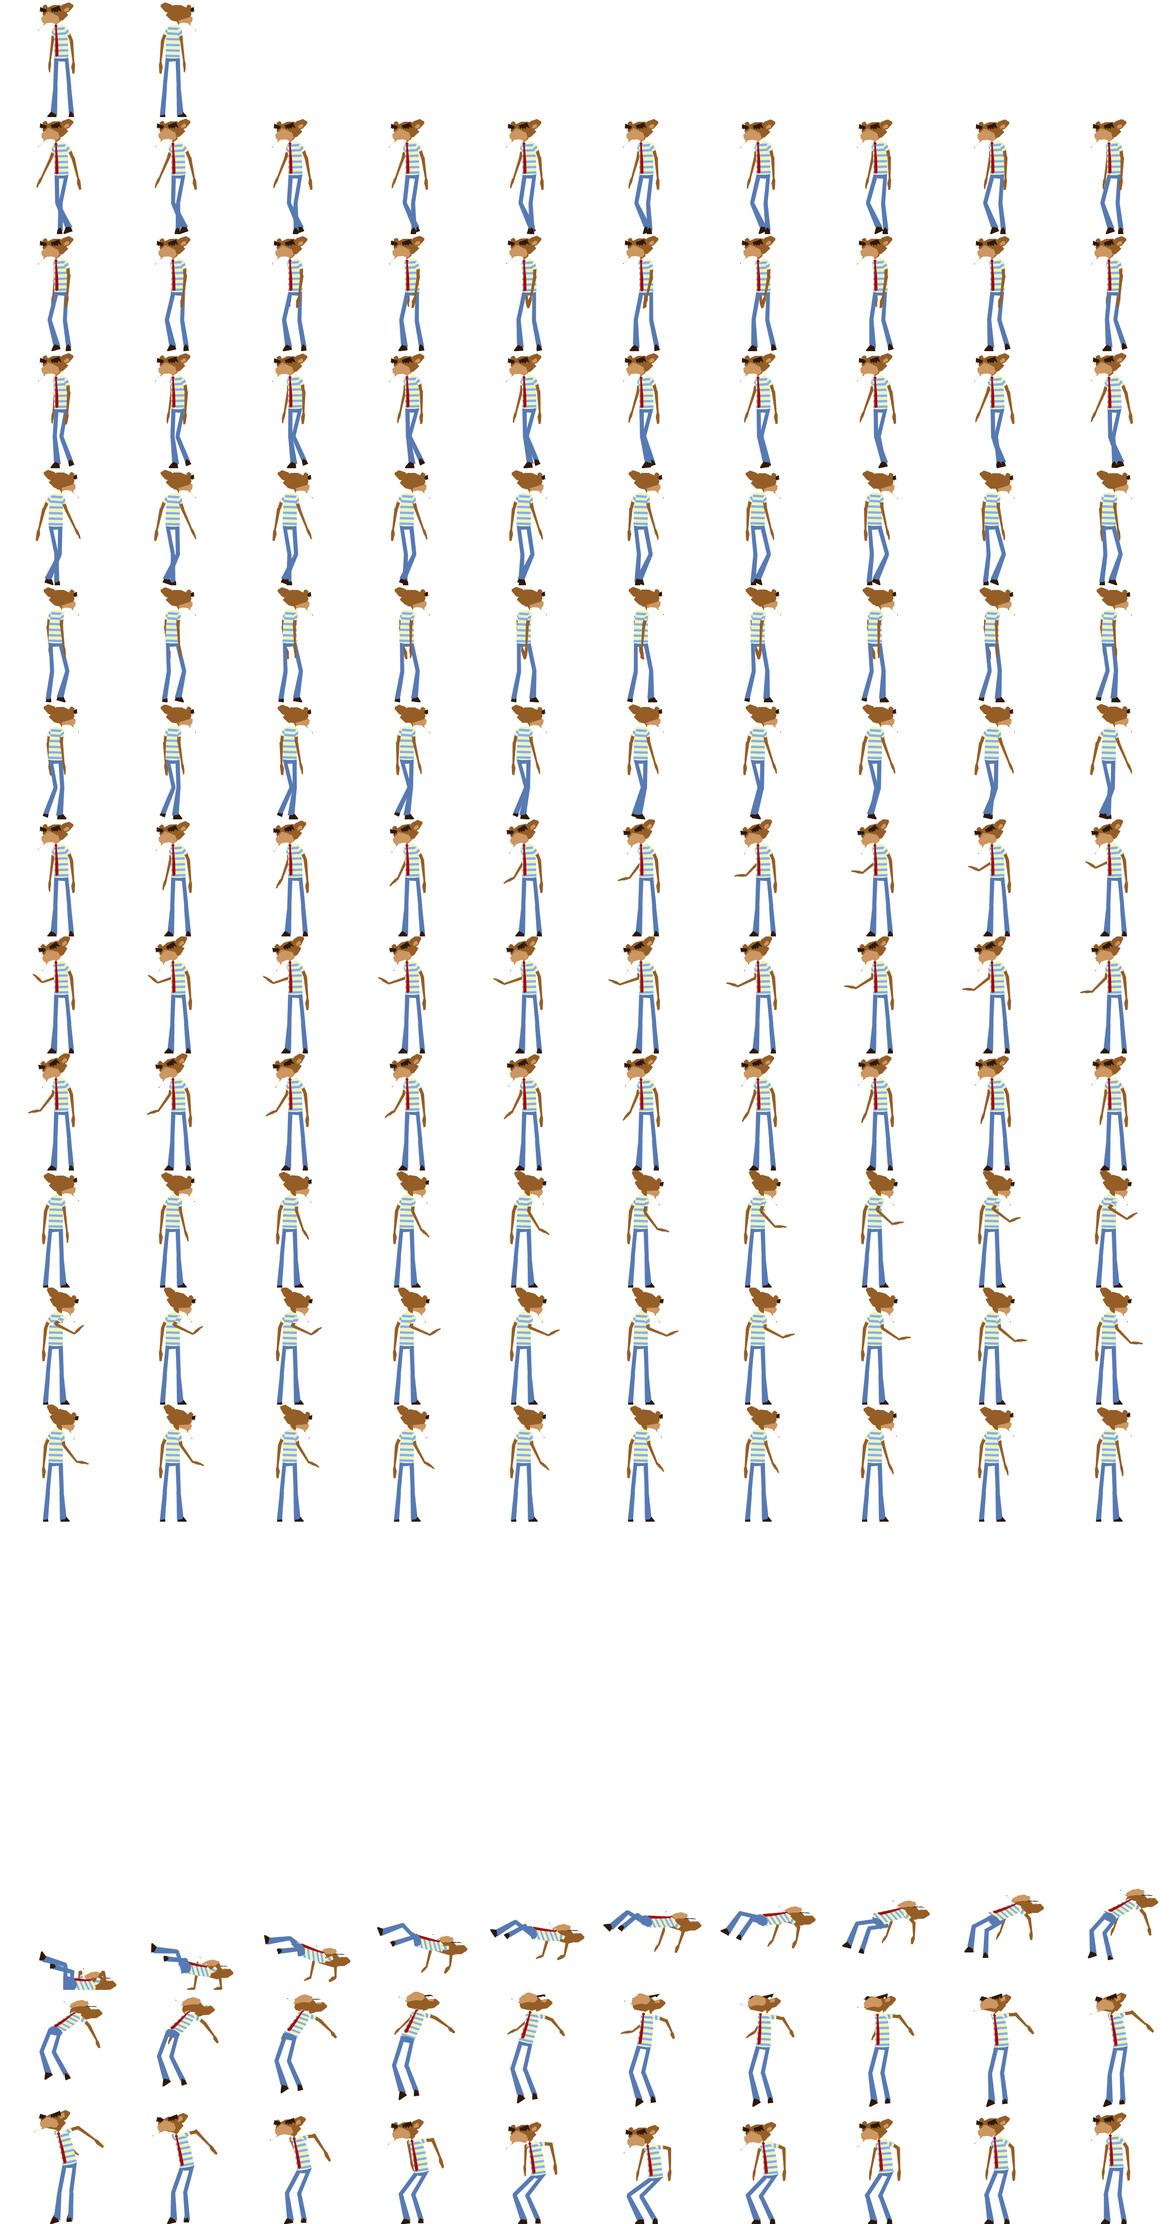
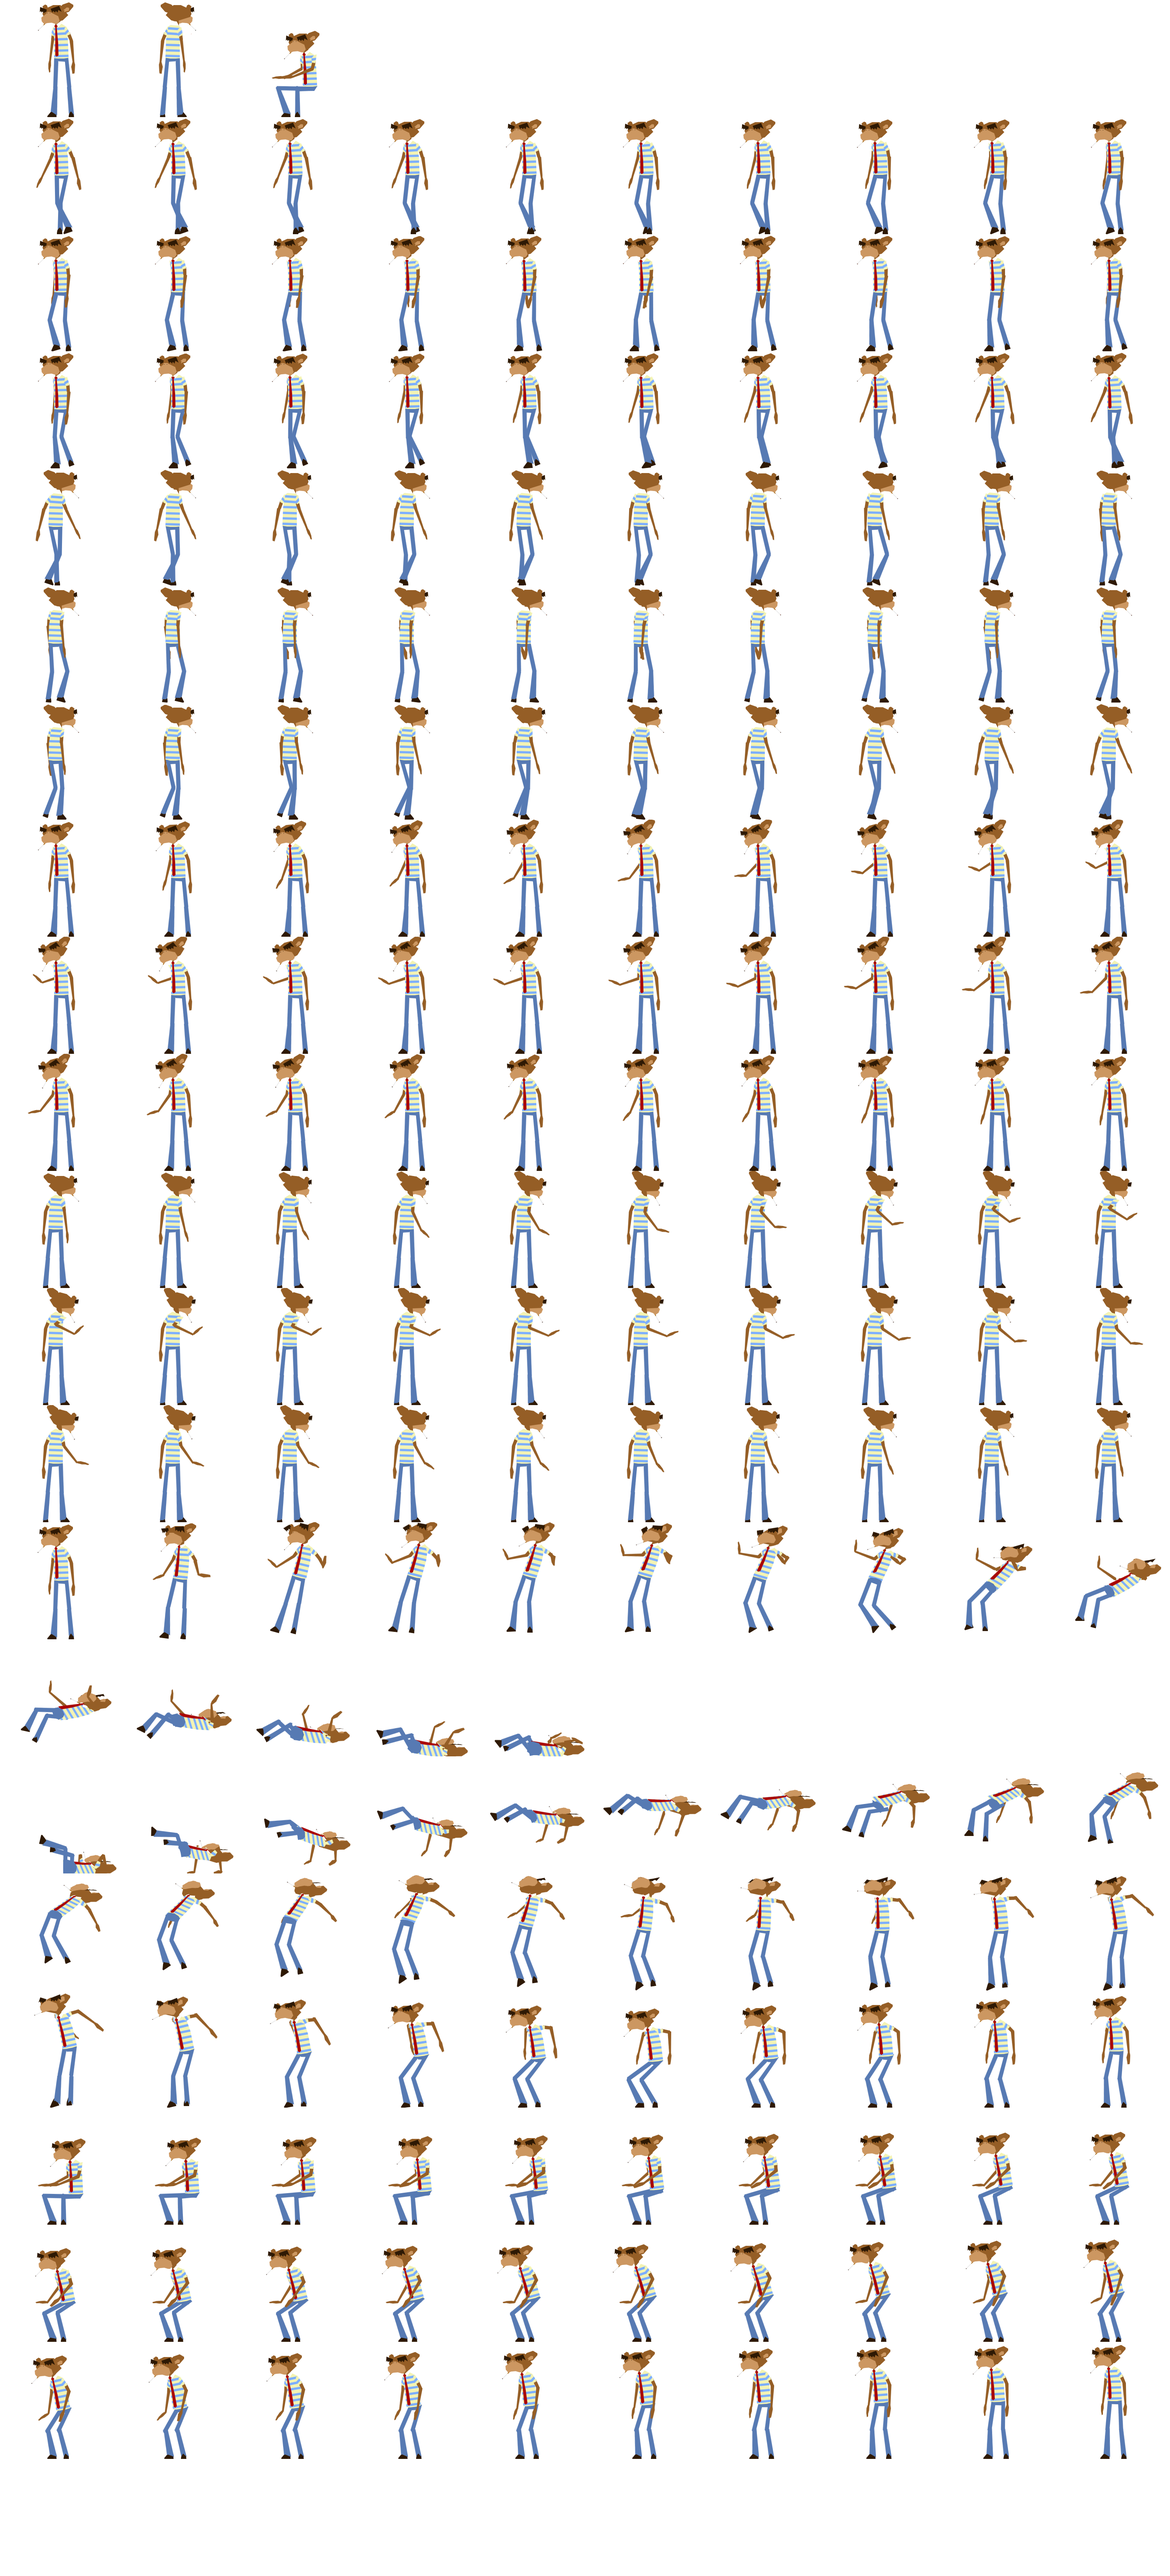
added a1s2 assets and animo definitions

diff --git a/src/modules/animations.js b/src/modules/animations.js
@@ -26,7 +26,7 @@ define([],function(){
   animations.rickglobal = {
     framerate: 33,
     images: ["assets/global/rickbase.png"],
-    frames: {width: 300, height: 300, count: 190},
+    frames: {width: 300, height: 300, count: 210},
     animations: {
       idlel: {
         frames: [0]
@@ -34,15 +34,16 @@ define([],function(){
       idler: {
         frames: [1]
       },
-      downl: {
+      sitl: {
         frames: [2]
       },
       walkl: [10,39],
       walkr: [40,69],
       interactl: [70,99,"idlel"],
       interactr: [100,129,"idler"],
-      knockdown: [130,159,"downl"],
-      getup: [160,189,"idlel"]
+      knockdown: [130,144,"getup"],
+      getup: [150,179,"idlel"],
+      sitstand: [180,209,"idlel"]
     }
   }
 
@@ -120,6 +121,53 @@ define([],function(){
       },
       "reaction-unfold": [10,24,"idleunfold"],
       "reaction-mark": [30,59,"idlemarked"]
+    }
+  }
+  
+  
+  //A1S2
+
+
+  animations.calendar = {
+    framerate: 33,
+    images: ["assets/a1s2/calendar.png"],
+    frames: {width: 75, height: 140, count: 30},
+    animations: {
+      idle: {
+        frames: [0]
+      },
+
+      "reaction-swap": [10,19,false],
+      "reaction-mark": [20,29,false]
+
+    }
+  };
+
+  animations.oatmeal = {
+    framerate: 33,
+    images: ["assets/a1s2/oatmeal.png"],
+    frames: {width: 300, height: 300, count: 30},
+    animations: {
+      idle: {
+        frames: [0]
+      },
+      "reaction-heat": [10,19,false],
+      "reaction-cool": [20,29,false]
+    }
+  }
+  
+  animations.fridge = {
+    framerate: 33,
+    images: ["assets/a1s2/fridge.png"],
+    frames: {width: 600, height: 300, count: 120},
+    animations: {
+      idle: {
+        frames: [0]
+      },
+      "reaction-eggs": [10,24,"idle"],
+      "objectaction-open": [30,44,false],
+      "objectaction-openeggs": [50,64,false],
+      "objectaction-attack": [70,119,false],
     }
   }
 
